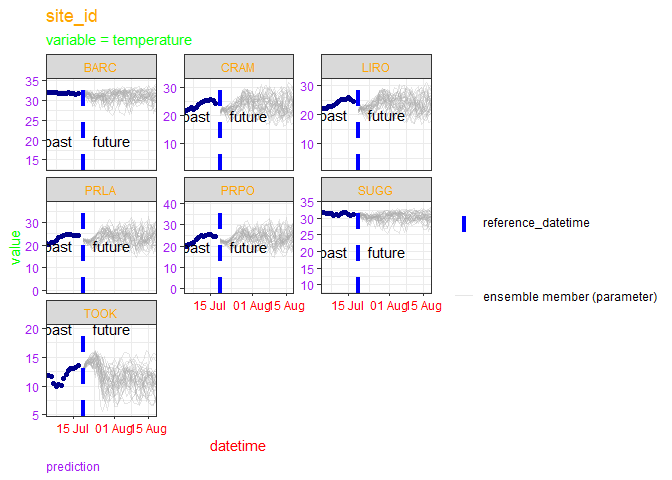
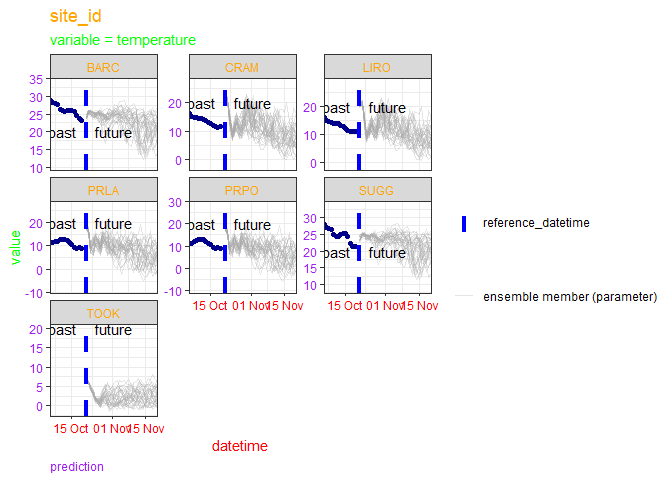
update rendered docs

diff --git a/Submit_forecast/NEON_forecast_challenge_workshop_aquatics.md b/Submit_forecast/NEON_forecast_challenge_workshop_aquatics.md
@@ -133,7 +133,7 @@ library(lubridate)
 If you do not wish to run the code yourself you can follow along via the
 html (NEON_forecast_challenge_workshop.md), which can be downloaded from
 the [Github
-repository](https://github.com/OlssonF/NEON-forecast-challenge-workshop).
+repository](https://github.com/eco4cast/NEON-forecast-challenge-workshop).
 
 # 2 Introduction to NEON forecast challenge
 
@@ -192,7 +192,7 @@ examples of both `ensemble` and `normal` forecasts as examples.
 
 The full list of required columns and format can be found in the
 [Challenge
-documentation](https://projects.ecoforecast.org/neon4cast-docs/Submission-Instructions.html).
+documentation](https://projects.ecoforecast.org/neon4cast-ci/instructions.html).
 
 # 3 The forecasting workflow
 
@@ -209,11 +209,11 @@ targets <- read_csv('https://data.ecoforecast.org/neon4cast-targets/aquatics/aqu
 ```
 
 Information on the NEON sites can be found in the
-`NEON_Field_Site_Metadata_20220412.csv` file on GitHub. It can be
-filtered to only include aquatic sites. This table has information about
-the field sites, including location, ecoregion, information about the
-watershed (e.g. elevation, mean annual precipitation and temperature),
-and lake depth.
+`NEON_Field_Site_Metadata_20220412.csv` file in the `eco4cast`
+repository on GitHub. It can be filtered to only include aquatic sites.
+This table has information about the field sites, including location,
+ecoregion, information about the watershed (e.g. elevation, mean annual
+precipitation and temperature), and lake depth.
 
 ``` r
 # read in the sites data
@@ -310,9 +310,9 @@ sites. The 3 types of data are as follows:
     combination of day 1 weather forecasts (i.e., when the forecasts are
     most accurate).
 
-This code create a connection to the dataset hosted on the eco4cast
+This code creates a connection to the dataset hosted on the eco4cast
 server using `arrow` functions. To download the data you have to tell
-the function to `collect()` it. These data set can be subsetted and
+the function to `collect()` it. These data sets can be subset and
 filtered using `dplyr` functions prior to download to limit the memory
 usage.
 
@@ -343,26 +343,26 @@ noaa_past <- noaa_past_s3  |>
 noaa_past
 ```
 
-    ## # A tibble: 7,260,169 × 7
+    ## # A tibble: 7,749,721 × 7
     ##    parameter datetime            variable   prediction family reference_datetime
     ##        <dbl> <dttm>              <chr>           <dbl> <chr>  <lgl>             
-    ##  1         0 2020-09-24 00:00:00 air_tempe…       290. ensem… NA                
-    ##  2         1 2020-09-24 00:00:00 air_tempe…       290. ensem… NA                
-    ##  3         2 2020-09-24 00:00:00 air_tempe…       290. ensem… NA                
-    ##  4         3 2020-09-24 00:00:00 air_tempe…       290. ensem… NA                
+    ##  1         0 2020-09-24 00:00:00 air_tempe…       291. ensem… NA                
+    ##  2         1 2020-09-24 00:00:00 air_tempe…       291. ensem… NA                
+    ##  3         2 2020-09-24 00:00:00 air_tempe…       291. ensem… NA                
+    ##  4         3 2020-09-24 00:00:00 air_tempe…       292. ensem… NA                
     ##  5         4 2020-09-24 00:00:00 air_tempe…       291. ensem… NA                
     ##  6         5 2020-09-24 00:00:00 air_tempe…       290. ensem… NA                
-    ##  7         6 2020-09-24 00:00:00 air_tempe…       290. ensem… NA                
-    ##  8         7 2020-09-24 00:00:00 air_tempe…       290. ensem… NA                
-    ##  9         8 2020-09-24 00:00:00 air_tempe…       290. ensem… NA                
-    ## 10         9 2020-09-24 00:00:00 air_tempe…       290. ensem… NA                
-    ## # ℹ 7,260,159 more rows
+    ##  7         6 2020-09-24 00:00:00 air_tempe…       291. ensem… NA                
+    ##  8         7 2020-09-24 00:00:00 air_tempe…       291. ensem… NA                
+    ##  9         8 2020-09-24 00:00:00 air_tempe…       292. ensem… NA                
+    ## 10         9 2020-09-24 00:00:00 air_tempe…       291. ensem… NA                
+    ## # ℹ 7,749,711 more rows
     ## # ℹ 1 more variable: site_id <chr>
 
-This is a stacked ensemble forecast of the one day ahead forecasts. To
-get an estimate of the historic conditions we can take a mean of these
-ensembles. We will also need to convert the temperatures to Celsius from
-Kelvin.
+This is a stacked ensemble of the one day ahead forecasts. To get an
+estimate of the historic conditions we can take a mean of these
+ensembles. We will also convert the temperatures from Kelvin to Celsius
+so that the values are on a familiar scale.
 
 ``` r
 # aggregate the past to mean values
@@ -426,16 +426,16 @@ noaa_future_daily
     ## # Groups:   datetime, site_id, parameter [7,595]
     ##    datetime   site_id air_temperature parameter
     ##    <date>     <chr>             <dbl>     <dbl>
-    ##  1 2024-07-19 BARC               29.8         0
-    ##  2 2024-07-19 BARC               30.4         1
-    ##  3 2024-07-19 BARC               30.0         2
-    ##  4 2024-07-19 BARC               29.7         3
-    ##  5 2024-07-19 BARC               29.6         4
-    ##  6 2024-07-19 BARC               30.1         5
-    ##  7 2024-07-19 BARC               28.9         6
-    ##  8 2024-07-19 BARC               29.4         7
-    ##  9 2024-07-19 BARC               29.5         8
-    ## 10 2024-07-19 BARC               29.6         9
+    ##  1 2024-10-21 BARC               20.9         0
+    ##  2 2024-10-21 BARC               21.3         1
+    ##  3 2024-10-21 BARC               21.7         2
+    ##  4 2024-10-21 BARC               19.9         3
+    ##  5 2024-10-21 BARC               20.5         4
+    ##  6 2024-10-21 BARC               22.3         5
+    ##  7 2024-10-21 BARC               21.2         6
+    ##  8 2024-10-21 BARC               22.1         7
+    ##  9 2024-10-21 BARC               21.1         8
+    ## 10 2024-10-21 BARC               21.5         9
     ## # ℹ 7,585 more rows
 
 Now we have a timeseries of historic data and a 30 member ensemble
@@ -507,10 +507,10 @@ fit <- lm(site_target$temperature ~ site_target$air_temperature)
 forecasted_temperature <- fit$coefficients[1] + fit$coefficients[2] * noaa_future_site$air_temperature
 ```
 
-We can loop through this for each site to create a site-wise forecast of
-water temperature based on a linear model and each forecasted air
-temperature. We can run this forecast for each site and then bind them
-together to submit as one forecast.
+Next, we will can loop through this for each site to create a site-wise
+forecast of water temperature based on a linear model and each
+forecasted air temperature. After we run this forecast for each site, we
+will bind them together to submit as one forecast.
 
 ## 5.1 Specify forecast model
 
@@ -562,9 +562,10 @@ for(i in 1:length(lake_sites$field_site_id)) {
     ## TOOK temperature forecast run
 
 We now have 31 possible forecasts of water temperature at each site and
-each day. On this plot each line represents one of the possible
-forecasts and the range of forecasted water temperature is a simple
-quantification of the uncertainty in our forecast.
+each day, one for each air of the ensemble temperature forecasts. On
+this plot each line represents one of the possible forecasts and the
+range of forecasted water temperature is a simple quantification of the
+uncertainty in our forecast.
 
 Looking back at the forecasts we produced:
 
@@ -638,7 +639,7 @@ forecast_file_1 <- paste(theme, date, forecast_name_1, sep = '-')
 forecast_file_1
 ```
 
-    ## [1] "aquatics-2024-07-19-example_ID.csv"
+    ## [1] "aquatics-2024-10-21-example_ID.csv"
 
 ``` r
 write_csv(temp_lm_forecast_EFI,forecast_file_1)
@@ -646,7 +647,7 @@ write_csv(temp_lm_forecast_EFI,forecast_file_1)
 neon4cast::forecast_output_validator(forecast_file_1)
 ```
 
-    ## aquatics-2024-07-19-example_ID.csv
+    ## aquatics-2024-10-21-example_ID.csv
 
     ## ✔ file has model_id column
     ## ✔ forecasted variables found correct variable + prediction column
@@ -703,9 +704,9 @@ forecasts!
 
 It’s really important that once you start submitting forecasts to the
 Challenge that you register your participation. We ask that you complete
-this [form](https://nd.qualtrics.com/jfe/form/SV_9MJ29y2xNrBOjqZ) which
-asks you some simple questions about your forecast and team. This is
-crucial for a couple of reasons:
+this [form](https://forms.gle/kg2Vkpho9BoMXSy57) which asks you some
+simple questions about your forecast and team. This is crucial for a
+couple of reasons:
 
 1.  We can keep track different forecast submissions during the scoring
     process to see which forecast is performing the best. Your
@@ -809,7 +810,7 @@ targets |>
   pull()
 ```
 
-    ## [1] "2024-07-17"
+    ## [1] "2024-10-19"
 
 Specifying the model and forecasts in this way would be fine if we have
 data observed to yesterday but this often isn’t the case. For the NEON
@@ -842,13 +843,13 @@ forecast_starts
     ## # A tibble: 7 × 4
     ##   site_id variable    reference_datetime h      
     ##   <chr>   <chr>       <date>             <drtn> 
-    ## 1 BARC    temperature 2024-07-18         31 days
-    ## 2 CRAM    temperature 2024-07-18         31 days
-    ## 3 LIRO    temperature 2024-07-18         31 days
-    ## 4 PRLA    temperature 2024-07-18         31 days
-    ## 5 PRPO    temperature 2024-07-18         31 days
-    ## 6 SUGG    temperature 2024-07-18         31 days
-    ## 7 TOOK    temperature 2024-07-18         31 days
+    ## 1 BARC    temperature 2024-10-20         31 days
+    ## 2 CRAM    temperature 2024-10-20         31 days
+    ## 3 LIRO    temperature 2024-10-20         31 days
+    ## 4 PRLA    temperature 2024-10-20         31 days
+    ## 5 PRPO    temperature 2024-10-20         31 days
+    ## 6 SUGG    temperature 2024-10-20         31 days
+    ## 7 TOOK    temperature 2024-09-19         62 days
 
 You can see that the sites have different start dates, based on when the
 last observation was taken. We want to fit each site (and variable)
@@ -1023,16 +1024,16 @@ RW_forecast %>%
     ## # Key:       variable, site_id, .model, .rep [200]
     ##    variable    site_id .model datetime   .rep   .sim
     ##    <chr>       <chr>   <chr>  <date>     <chr> <dbl>
-    ##  1 temperature SUGG    RW     2024-07-18 1      30.5
-    ##  2 temperature SUGG    RW     2024-07-19 1      30.5
-    ##  3 temperature SUGG    RW     2024-07-20 1      30.7
-    ##  4 temperature SUGG    RW     2024-07-21 1      30.8
-    ##  5 temperature SUGG    RW     2024-07-22 1      32.2
-    ##  6 temperature SUGG    RW     2024-07-23 1      32.3
-    ##  7 temperature SUGG    RW     2024-07-24 1      31.8
-    ##  8 temperature SUGG    RW     2024-07-25 1      33.0
-    ##  9 temperature SUGG    RW     2024-07-26 1      32.2
-    ## 10 temperature SUGG    RW     2024-07-27 1      31.7
+    ##  1 temperature SUGG    RW     2024-10-20 1      21.4
+    ##  2 temperature SUGG    RW     2024-10-21 1      21.3
+    ##  3 temperature SUGG    RW     2024-10-22 1      21.0
+    ##  4 temperature SUGG    RW     2024-10-23 1      19.8
+    ##  5 temperature SUGG    RW     2024-10-24 1      19.0
+    ##  6 temperature SUGG    RW     2024-10-25 1      19.2
+    ##  7 temperature SUGG    RW     2024-10-26 1      19.3
+    ##  8 temperature SUGG    RW     2024-10-27 1      19.1
+    ##  9 temperature SUGG    RW     2024-10-28 1      19.2
+    ## 10 temperature SUGG    RW     2024-10-29 1      19.0
     ## # ℹ 6,190 more rows
 
 How reasonable are these forecasts?? Is there a way to improve the
@@ -1085,7 +1086,7 @@ alt="annotated forecasts" />
 <figcaption aria-hidden="true">annotated forecasts</figcaption>
 </figure>
 
-The forecast output from `fable` needs modifying slightly to fit the
+The forecast output from `fable` needs slight modification to fit the
 Challenge standards.
 
 ``` r
@@ -1107,12 +1108,12 @@ Now we have a forecast that can be submitted to the EFI challenge.
     ## # Key:       site_id, parameter, variable [1]
     ##   model_id   datetime   reference_datetime site_id family   parameter variable  
     ##   <chr>      <date>     <date>             <chr>   <chr>    <chr>     <chr>     
-    ## 1 example_RW 2024-07-20 2024-07-19         BARC    ensemble 1         temperatu…
-    ## 2 example_RW 2024-07-21 2024-07-19         BARC    ensemble 1         temperatu…
-    ## 3 example_RW 2024-07-22 2024-07-19         BARC    ensemble 1         temperatu…
-    ## 4 example_RW 2024-07-23 2024-07-19         BARC    ensemble 1         temperatu…
-    ## 5 example_RW 2024-07-24 2024-07-19         BARC    ensemble 1         temperatu…
-    ## 6 example_RW 2024-07-25 2024-07-19         BARC    ensemble 1         temperatu…
+    ## 1 example_RW 2024-10-22 2024-10-21         BARC    ensemble 1         temperatu…
+    ## 2 example_RW 2024-10-23 2024-10-21         BARC    ensemble 1         temperatu…
+    ## 3 example_RW 2024-10-24 2024-10-21         BARC    ensemble 1         temperatu…
+    ## 4 example_RW 2024-10-25 2024-10-21         BARC    ensemble 1         temperatu…
+    ## 5 example_RW 2024-10-26 2024-10-21         BARC    ensemble 1         temperatu…
+    ## 6 example_RW 2024-10-27 2024-10-21         BARC    ensemble 1         temperatu…
     ## # ℹ 1 more variable: prediction <dbl>
 
 ### 6.1.2 Write the forecast to file
@@ -1148,7 +1149,7 @@ for submitting, scoring and reading forecasts:
 neon4cast::forecast_output_validator(file.path('Forecasts', forecast_file_2))
 ```
 
-    ## Forecasts/aquatics-2024-07-19-example_RW.csv
+    ## Forecasts/aquatics-2024-10-21-example_RW.csv
 
     ## ✔ file has model_id column
     ## ✔ forecasted variables found correct variable + prediction column
@@ -1234,16 +1235,16 @@ SN_forecast
     ## # Key:     variable, site_id, .model [7]
     ##    variable    site_id .model datetime   observation .mean
     ##    <chr>       <chr>   <chr>  <date>          <dist> <dbl>
-    ##  1 temperature BARC    SN     2024-07-20  N(33, 3.9)  32.8
-    ##  2 temperature BARC    SN     2024-07-21  N(33, 3.9)  32.6
-    ##  3 temperature BARC    SN     2024-07-22  N(32, 3.9)  32.2
-    ##  4 temperature BARC    SN     2024-07-23  N(32, 3.9)  31.8
-    ##  5 temperature BARC    SN     2024-07-24  N(32, 3.9)  31.7
-    ##  6 temperature BARC    SN     2024-07-25  N(32, 3.9)  31.7
-    ##  7 temperature BARC    SN     2024-07-26  N(32, 3.9)  31.8
-    ##  8 temperature BARC    SN     2024-07-27  N(32, 3.9)  31.5
-    ##  9 temperature BARC    SN     2024-07-28  N(32, 3.9)  31.6
-    ## 10 temperature BARC    SN     2024-07-29  N(32, 3.9)  31.9
+    ##  1 temperature BARC    SN     2024-10-22  N(24, 3.8)  24.0
+    ##  2 temperature BARC    SN     2024-10-23  N(24, 3.8)  23.9
+    ##  3 temperature BARC    SN     2024-10-24  N(24, 3.8)  23.9
+    ##  4 temperature BARC    SN     2024-10-25  N(24, 3.8)  24.0
+    ##  5 temperature BARC    SN     2024-10-26  N(24, 3.8)  24.1
+    ##  6 temperature BARC    SN     2024-10-27  N(24, 3.8)  24.3
+    ##  7 temperature BARC    SN     2024-10-28  N(24, 3.8)  24.5
+    ##  8 temperature BARC    SN     2024-10-29  N(25, 3.8)  24.7
+    ##  9 temperature BARC    SN     2024-10-30  N(25, 3.8)  25.0
+    ## 10 temperature BARC    SN     2024-10-31  N(25, 3.8)  24.5
     ## # ℹ 200 more rows
 
 The output from this function is a `fable`. The prediction are held in
@@ -1306,16 +1307,16 @@ SN_forecast_EFI <- convert_to_efi_standard(SN_forecast,
     ## # Key:       site_id, parameter [14]
     ##    model_id      datetime   reference_datetime site_id family parameter variable
     ##    <chr>         <date>     <date>             <chr>   <chr>  <chr>     <chr>   
-    ##  1 example_clim… 2024-07-20 2024-07-19         BARC    normal mu        tempera…
-    ##  2 example_clim… 2024-07-20 2024-07-19         BARC    normal sigma     tempera…
-    ##  3 example_clim… 2024-07-21 2024-07-19         BARC    normal mu        tempera…
-    ##  4 example_clim… 2024-07-21 2024-07-19         BARC    normal sigma     tempera…
-    ##  5 example_clim… 2024-07-22 2024-07-19         BARC    normal mu        tempera…
-    ##  6 example_clim… 2024-07-22 2024-07-19         BARC    normal sigma     tempera…
-    ##  7 example_clim… 2024-07-23 2024-07-19         BARC    normal mu        tempera…
-    ##  8 example_clim… 2024-07-23 2024-07-19         BARC    normal sigma     tempera…
-    ##  9 example_clim… 2024-07-24 2024-07-19         BARC    normal mu        tempera…
-    ## 10 example_clim… 2024-07-24 2024-07-19         BARC    normal sigma     tempera…
+    ##  1 example_clim… 2024-10-22 2024-10-21         BARC    normal mu        tempera…
+    ##  2 example_clim… 2024-10-22 2024-10-21         BARC    normal sigma     tempera…
+    ##  3 example_clim… 2024-10-23 2024-10-21         BARC    normal mu        tempera…
+    ##  4 example_clim… 2024-10-23 2024-10-21         BARC    normal sigma     tempera…
+    ##  5 example_clim… 2024-10-24 2024-10-21         BARC    normal mu        tempera…
+    ##  6 example_clim… 2024-10-24 2024-10-21         BARC    normal sigma     tempera…
+    ##  7 example_clim… 2024-10-25 2024-10-21         BARC    normal mu        tempera…
+    ##  8 example_clim… 2024-10-25 2024-10-21         BARC    normal sigma     tempera…
+    ##  9 example_clim… 2024-10-26 2024-10-21         BARC    normal mu        tempera…
+    ## 10 example_clim… 2024-10-26 2024-10-21         BARC    normal sigma     tempera…
     ## # ℹ 410 more rows
     ## # ℹ 1 more variable: prediction <dbl>
 
